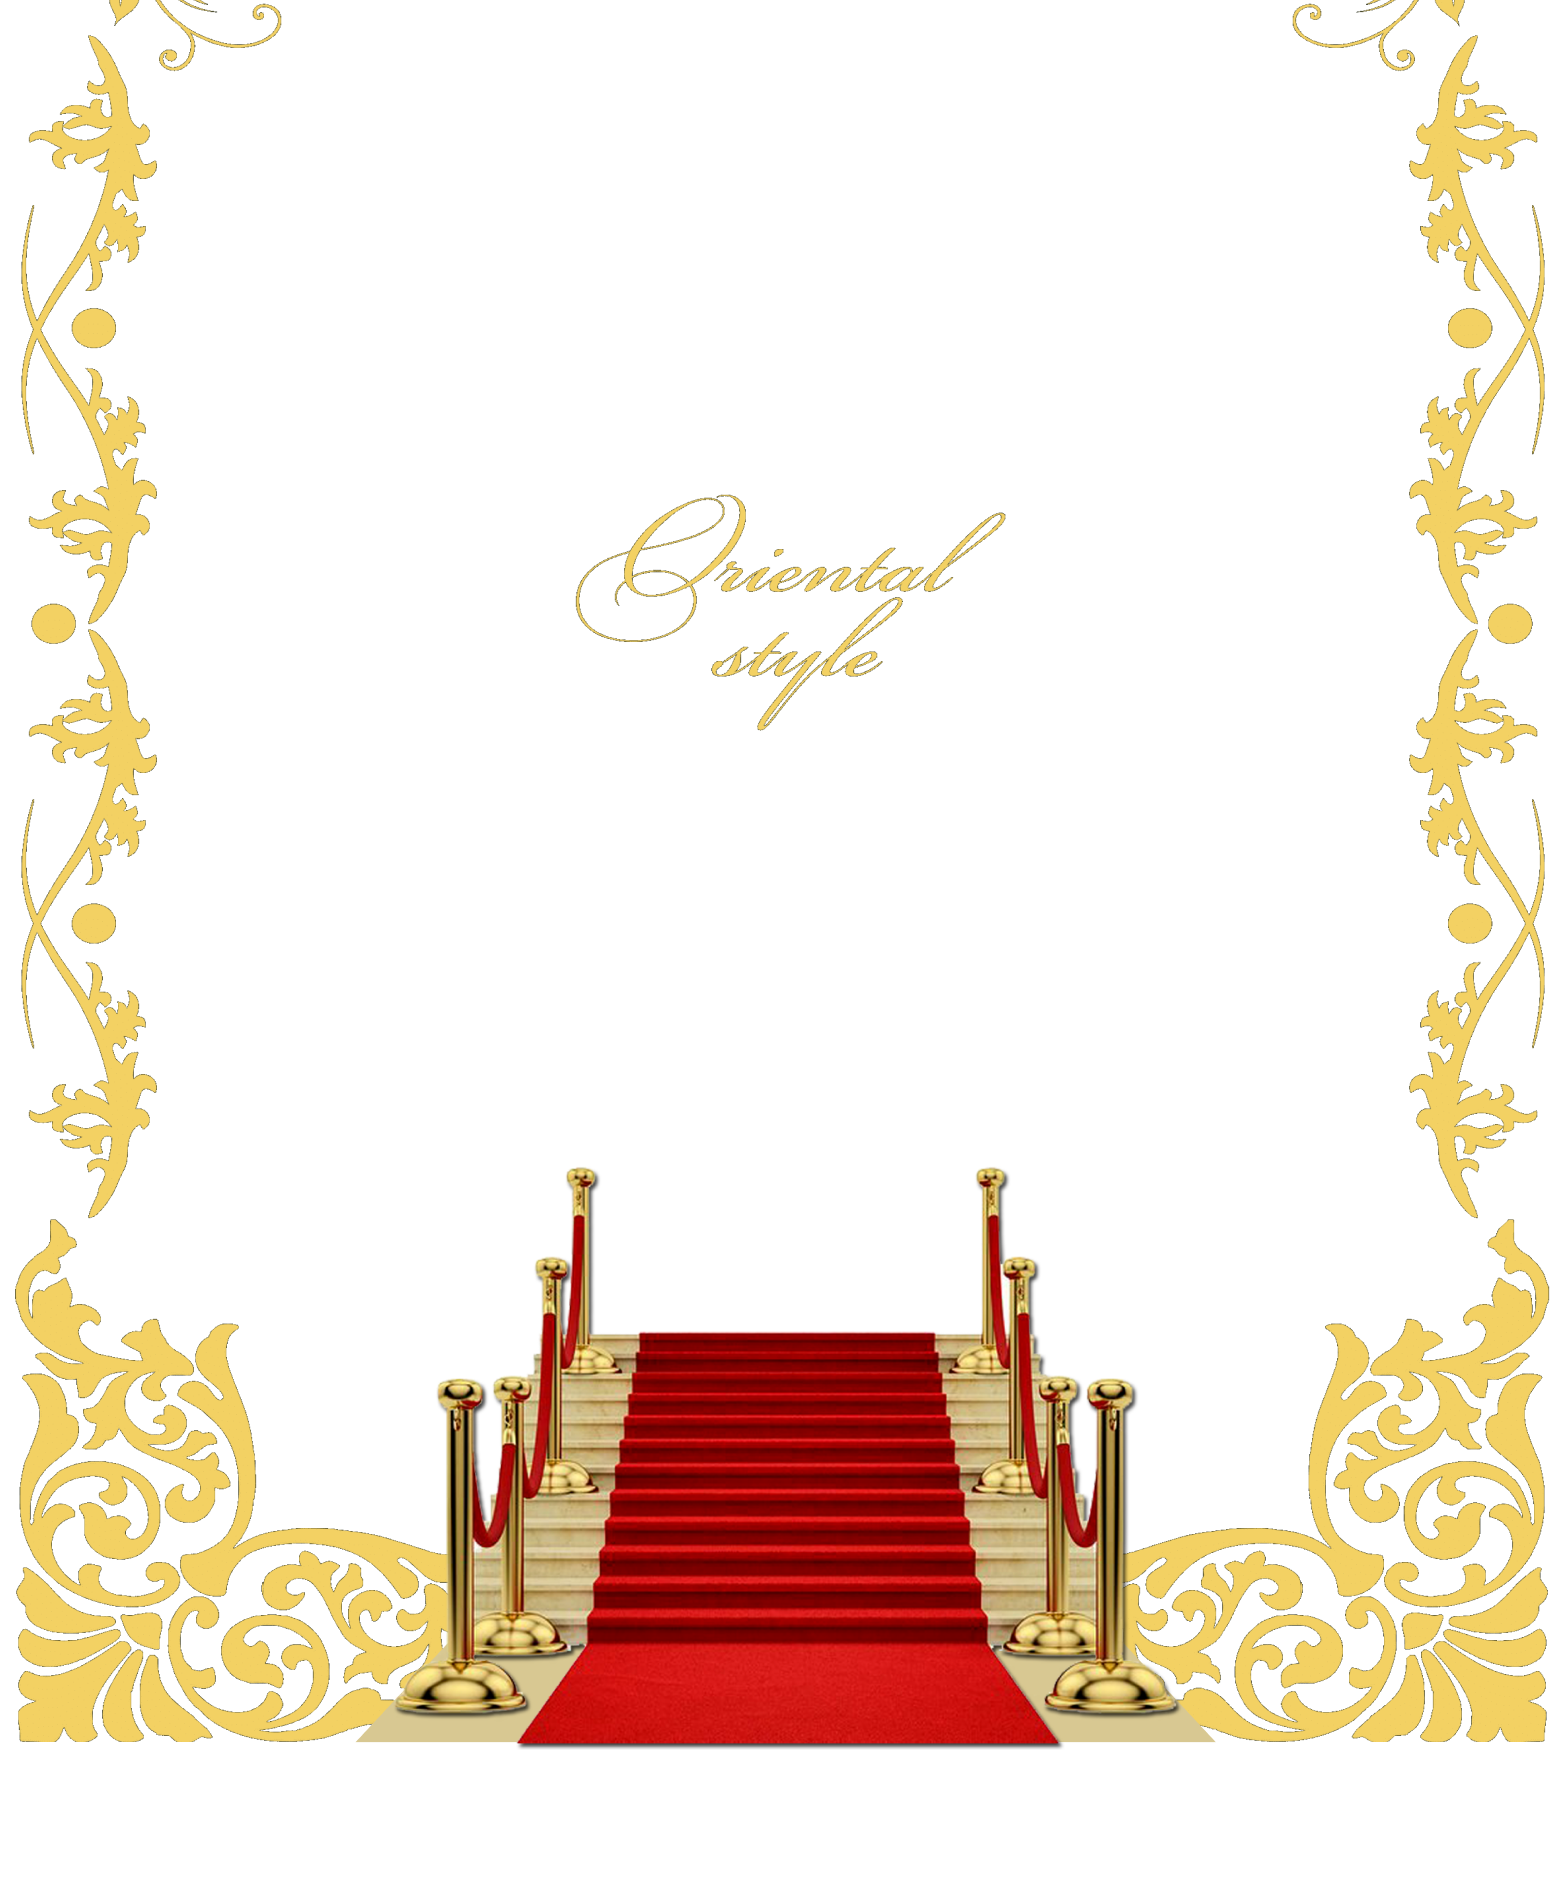
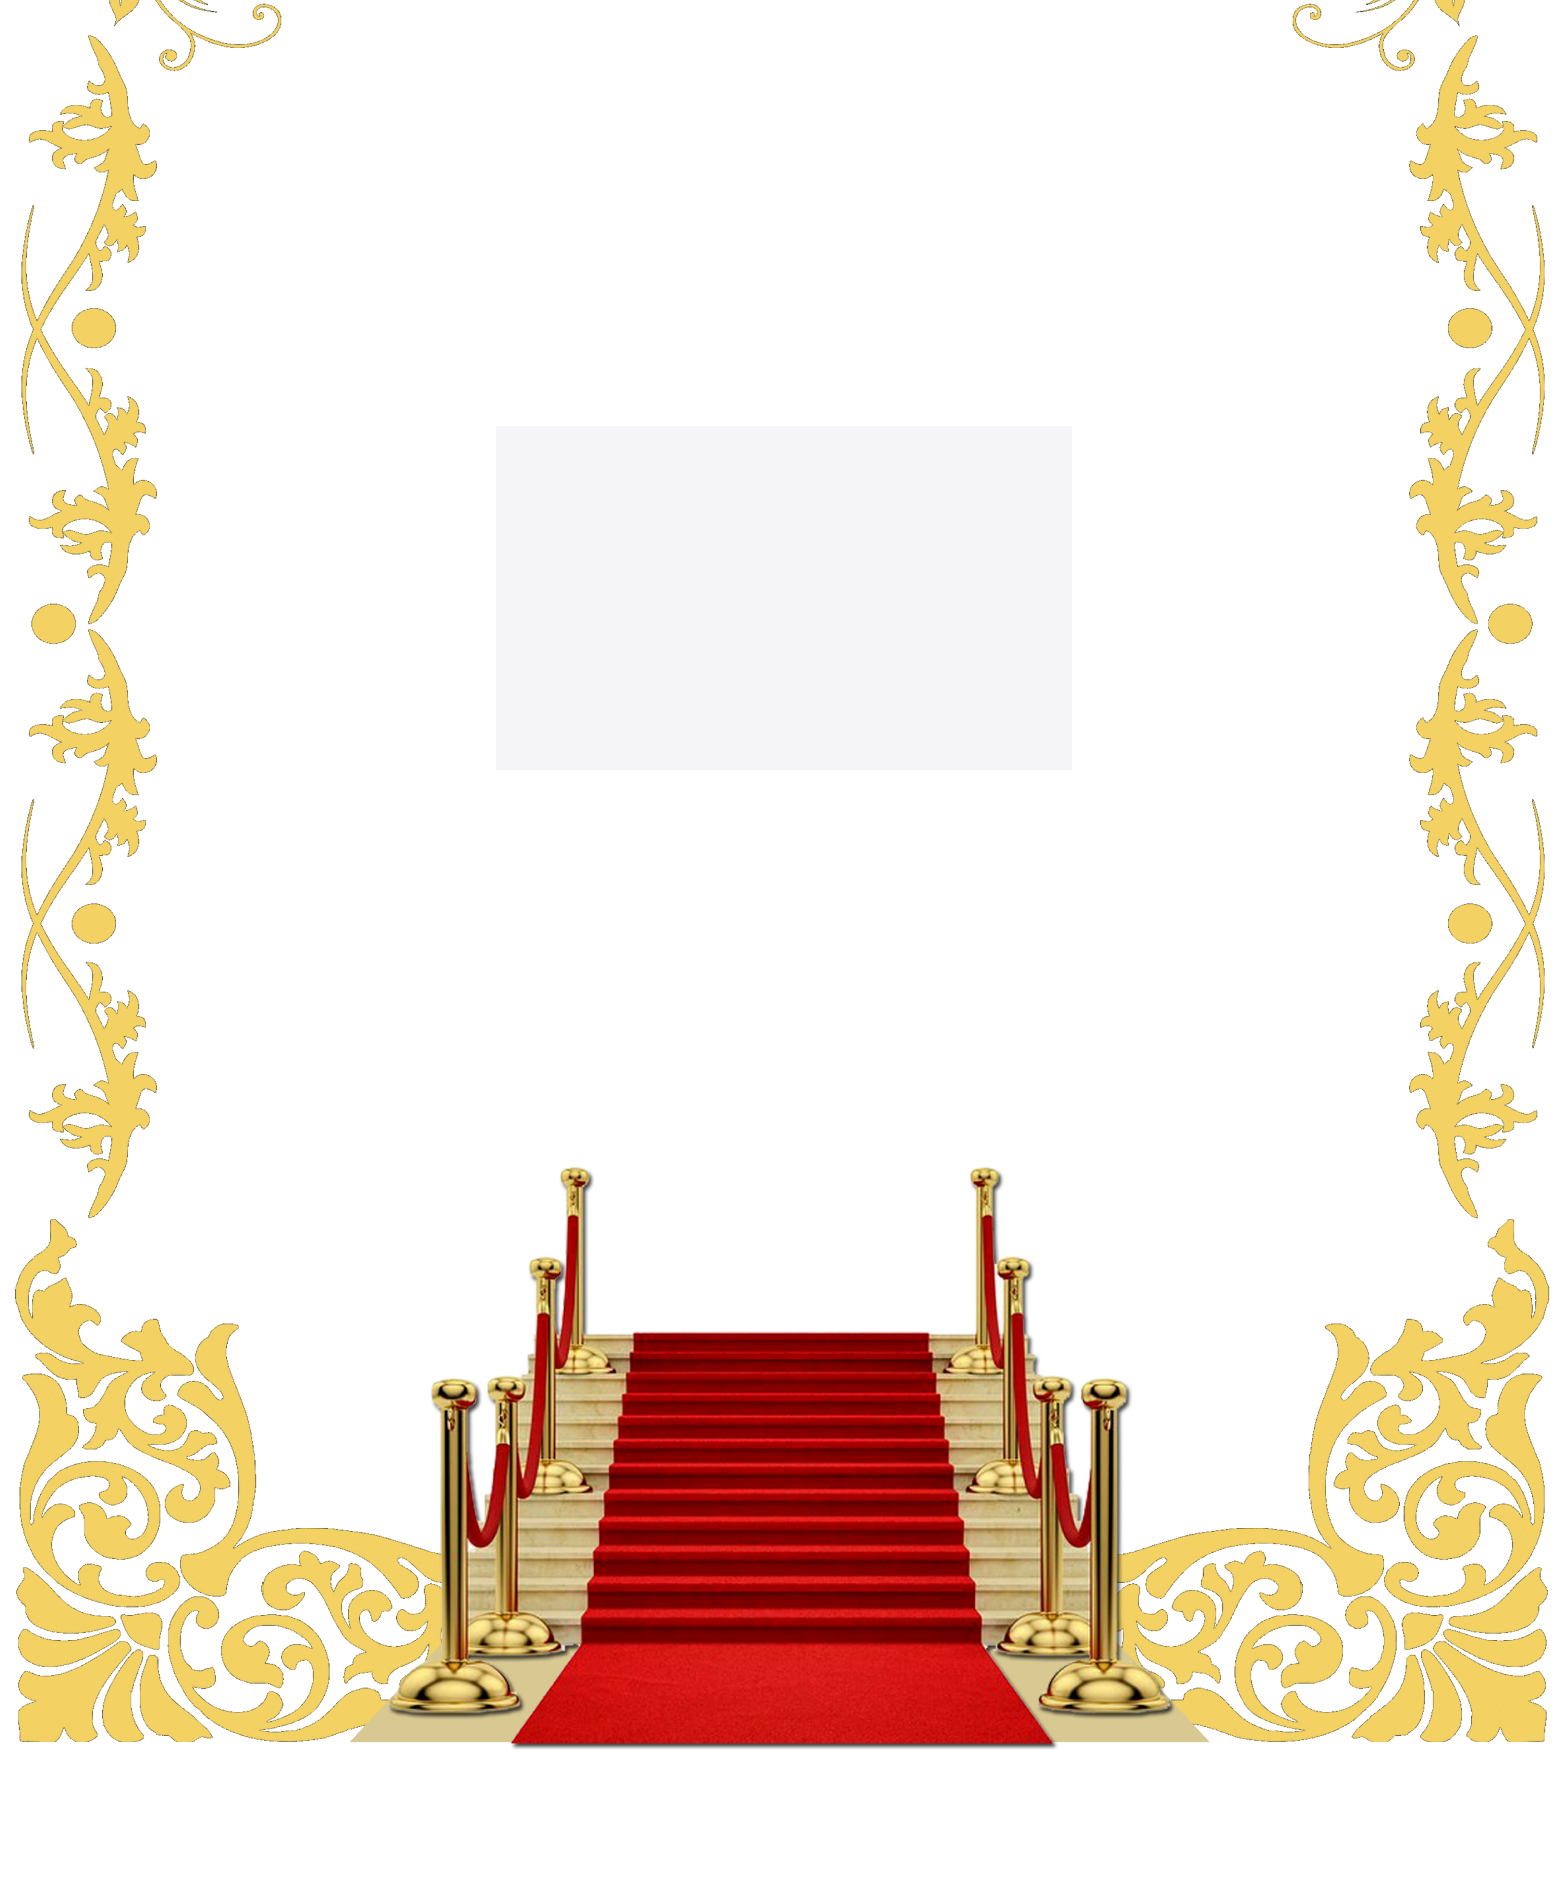
명예의 전당 구현완료

diff --git a/src/views/halloffame/ui/HallOfFameUserContainer.tsx b/src/views/halloffame/ui/HallOfFameUserContainer.tsx
@@ -1,6 +1,13 @@
-import Container from '@/widgets/container/Container';
 import React from 'react';
 import styled from 'styled-components';
+import Image from 'next/image';
+import CrownIcon from '../../../../public/icons/crownIcon.svg';
+import SilverMedalIcon from '../../../../public/icons/silverMedalIcon.svg';
+import BronzeMedalIcon from '../../../../public/icons/bronzeMedalIcon.svg';
+import Container from '@/widgets/container/Container';
+import UserProfileImaeg from '../../../../public/images/profileImageExample.png';
+import { ColumnWrapper } from '@/widgets/wrapper/ColumnWrapper';
+import { RowWrapper } from '@/widgets/wrapper/RowWrapper';
 
 interface HallOfFameUser {
     name: string;
@@ -9,29 +16,48 @@ interface HallOfFameUser {
     rank: number;
 }
 
-interface HallOfFameUserContainerProps {
-}
+const hallOfFameList: HallOfFameUser[] = [
+    { name: "홍길동", department: "컴퓨터공학과", studentId: "20180001", rank: 1 },
+    { name: "김철수", department: "전자공학과", studentId: "20180002", rank: 2 },
+    { name: "이영희", department: "기계공학과", studentId: "20180003", rank: 3 },
+    { name: "박영수", department: "화학공학과", studentId: "20180004", rank: 4 },
+    { name: "최지현", department: "건축학과", studentId: "20180005", rank: 5 },
+    { name: "장미희", department: "산업공학과", studentId: "20180006", rank: 6 },
+    { name: "윤지훈", department: "물리학과", studentId: "20180007", rank: 7 },
+    { name: "한지민", department: "생명과학과", studentId: "20180008", rank: 8 },
+    { name: "서지수", department: "수학과", studentId: "20180009", rank: 9 }
+];
 
-const HallOfFameUserContainer: React.FC<HallOfFameUserContainerProps> = ({ }) => {
+const RankIcon: React.FC<{ rank: number }> = ({ rank }) => {
+    switch (rank) {
+        case 1:
+            return <IconWrapper><Image src={CrownIcon} alt='왕관' /></IconWrapper>
+        case 2:
+            return <IconWrapper><Image src={SilverMedalIcon} alt='은메달' /></IconWrapper>
+        case 3:
+            return <IconWrapper><Image src={BronzeMedalIcon} alt='동메달' /></IconWrapper>
+        default:
+            return null;
+    }
+};
 
-    const hallOfFameList: HallOfFameUser[] = [
-        { name: "홍길동", department: "컴퓨터공학과", studentId: "20180001", rank: 1 },
-        { name: "김철수", department: "전자공학과", studentId: "20180002", rank: 2 },
-        { name: "이영희", department: "기계공학과", studentId: "20180003", rank: 3 },
-        { name: "박영수", department: "화학공학과", studentId: "20180004", rank: 4 },
-        { name: "최지현", department: "건축학과", studentId: "20180005", rank: 5 },
-        { name: "장미희", department: "산업공학과", studentId: "20180006", rank: 6 },
-        { name: "윤지훈", department: "물리학과", studentId: "20180007", rank: 7 },
-        { name: "한지민", department: "생명과학과", studentId: "20180008", rank: 8 },
-        { name: "서지수", department: "수학과", studentId: "20180009", rank: 9 }
-    ];
-
+const HallOfFameUserContainer: React.FC = () => {
     return (
         <GridWrapper>
             {hallOfFameList.map(user => (
-                <Container size='small' key={user.studentId}>
-                    {user.rank}위: {user.name} ({user.department}, {user.studentId})
-                </Container>
+                <UserContainer   width='200px' height='200px' key={user.studentId} >
+                    {user.rank <= 3 && <RankIcon rank={user.rank} />}
+                    <ColumnWrapper alignItmes='center' gap='1em' >
+                        <Image   
+                            width={44}
+                            height={44}
+                            sizes="50vw" src={UserProfileImaeg} alt='프로필이미지'/>
+                        {user.name} 
+                        <RowWrapper justifyContent='center'>
+                            <UserInfo>{user.department} {user.studentId}</UserInfo>
+                        </RowWrapper>
+                    </ColumnWrapper>
+                </UserContainer>
             ))}
         </GridWrapper>
     );
@@ -40,15 +66,36 @@ const HallOfFameUserContainer: React.FC<HallOfFameUserContainerProps> = ({ }) =>
 export default HallOfFameUserContainer;
 
 const GridWrapper = styled.div`
+    margin-top: 1em;
     display: grid;
     grid-template-columns: repeat(3, 1fr);
-    gap: 10px;
+    place-content : center center;
+    gap :0.5em;
 
     @media (max-width: 768px) {
         grid-template-columns: repeat(2, 1fr);
+        padding-bottom : 1em;
     }
 
     @media (max-width: 480px) {
         grid-template-columns: 1fr;
+        padding-bottom : 1em;
     }
 `;
+
+const UserContainer = styled(Container)`
+    position : relative;
+    display : flex;
+    align-items : center;
+    justify-cotent : center;
+`;
+
+const UserInfo = styled.div`
+    color : #999999;
+    font-size : 0.75em;
+`;
+
+const IconWrapper = styled.div`
+    position : absolute;
+    top : 0em;
+`

diff --git a/src/widgets/container/Container.tsx b/src/widgets/container/Container.tsx
@@ -13,7 +13,7 @@ export interface ContainerProps {
     zIndex?: number;
     padding?: string; 
     round?: boolean;
-
+    square?: boolean;
 }
 
 export const Container = ({
@@ -25,6 +25,7 @@ export const Container = ({
     children,
     zIndex = 1,
     round  = false,
+    square = false,
     ...props
 }: ContainerProps) => {
     return (
@@ -36,6 +37,7 @@ export const Container = ({
             height={height}
             width={width} 
             padding={padding} 
+            square={square} 
             {...props}
         >
             {children}
@@ -54,6 +56,7 @@ const StyledContainer = styled.div<{
     zIndex: number;
     padding: string; 
     round : boolean;
+    square?: boolean;
 }>`
     border: ${({ border }) => (border ? 'solid 1px #EDEDED' : '0')};
     border-radius: ${({round}) => (round ? '1.5em' : '0.875em')};
@@ -62,11 +65,13 @@ const StyledContainer = styled.div<{
     padding: ${({ padding }) => padding}; // padding 스타일 적용
     z-index: ${({ zIndex }) => zIndex};
     width: ${({ width }) => width}; 
-    height: ${({ height }) => height};
+    width: ${({ width, square }) => (square ? 'auto' : width)};
+    height: ${({ height, square, width }) => (square ? width : height)};
 
     @media (max-width: 768px) {
-        width: 100%;
+        width: 100%; 
         max-width: 100%;
+        height: ${({ square,width }) => (square ? width : 'auto')};
     }
 
     

diff --git a/src/views/halloffame/ui/HallOfFameFrame.tsx b/src/views/halloffame/ui/HallOfFameFrame.tsx
@@ -10,13 +10,16 @@ interface HallOfFameFrameProps {
 const HallOfFameFrame: React.FC<HallOfFameFrameProps> = ({ children }) => {
     return (
         <Frame>
+            <StyledImageWrapper>
             <Image
                 src={hallOfFameFrame}
                 alt='명예의전당배경'
                 layout='fill'
                 objectFit='cover'
             />
+            </StyledImageWrapper>
             <Children>
+                <BackDrop/>
                 {children}
             </Children>
         </Frame>
@@ -26,16 +29,38 @@ const HallOfFameFrame: React.FC<HallOfFameFrameProps> = ({ children }) => {
 export default HallOfFameFrame;
 
 const Frame = styled.div`
-    position: relative;
+    position : relative;
     width: 100%;
     height: 100vh;
+    
 `
+
+const StyledImageWrapper = styled.div`
+    position: absolute;
+    width: 100%;
+    height: 100%;
+
+    @media(max-width : 768px){
+        display: none;
+    }
+`;
+
 const Children = styled.div`
     position: absolute;
     top : 0;
     left : 0;
     width: 100%;
     height: 100%;
-    padding : 0em 5.5em;
+    padding : 0em 8.5em;
 
+    @media(max-width : 768px){
+        padding : 1em 1em;
+    }
+
+`
+
+const BackDrop = styled.div`
+    position : absolute;
+    background-color : #F5F5F7;
+    height : 100%;
 `

diff --git a/src/widgets/wrapper/ColumnWrapper.tsx b/src/widgets/wrapper/ColumnWrapper.tsx
@@ -2,11 +2,15 @@ import styled from 'styled-components';
 
 interface ColumnWrapperProps {
     gap?: string;
+    justifyContent?:  string;
+    alignItmes?: string;
 }
 
 export const ColumnWrapper = styled.div<ColumnWrapperProps>`
     width : 100%;
     display: flex;
     flex-direction: column;
-    gap: ${(props) => props.gap || '0'};  // gap을 props로 받아서 설정, 기본값은 '0'
+    align-items: ${(props) => props.alignItmes || 'start'};
+    gap: ${(props) => props.gap || '0'};
+    justify-content : ${(props) => props.justifyContent || ''}
 `;

diff --git a/src/views/halloffame/index.tsx b/src/views/halloffame/index.tsx
@@ -7,7 +7,7 @@ import HallOfFameFrame from "./ui/HallOfFameFrame";
 export default function HallOfFamePage() {
 
     return (
-        <PageWrapper padding="20%">
+        <PageWrapper padding="15%">
             <HallOfFameFrame>
                 <BackButton label="🏆 명예의 전당!" />
                 <HallOfFameUserContainer/>
